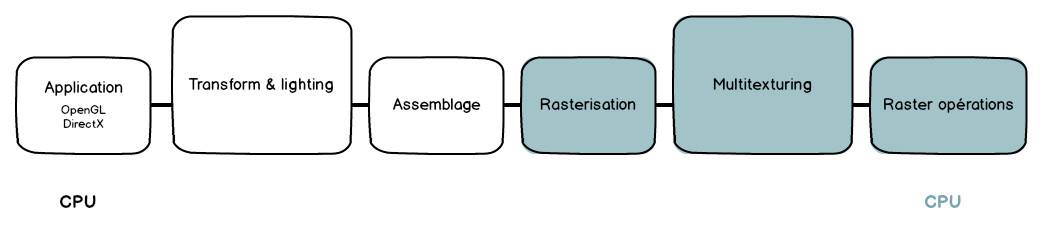
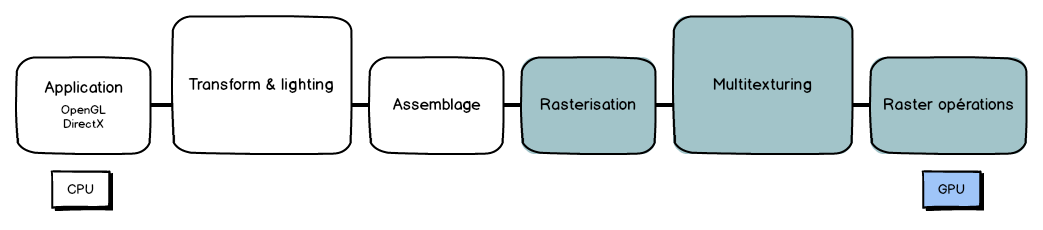
Image et bibtex

Changed region(s): [[0.8591, 0.7304, 0.9511, 0.9435], [0.0307, 0.7304, 0.1227, 0.9435]]

diff --git a/Tex/gpu_et_cpu/histoire.tex b/Tex/gpu_et_cpu/histoire.tex
@@ -24,7 +24,7 @@ Cette carte est une avancée majeure puisqu'elle permet désormais d'afficher n'
 Dans ce cas le CPU va effectuer tous les calculs permettant de décomposer les formes à afficher en pixels, il les envoie ensuite à la carte graphique qui les affiche.
 
 
-\includegraphics[width=15cm,height=4cm]{img/cpuRasterExemple.png}
+\includegraphics[width=15cm,height=6cm]{img/cpuRasterExemple.png}
 
 Dans cet exemple c'est donc le CPU qui va effectuer la demande de l'application en décomposant la ligne en pixels qui seront envoyés à la carte graphique.\\
 Ces calculs sont lourds pour le CPU, qui n'est alors composé que d'un coeur, celui ci n'est pas optimisé pour effectuer de nombreux calculs en peu de temps.
@@ -43,7 +43,7 @@ Aussi durant les années 1980, avec l'arrivée des interfaces graphiques, les ca
 Le CPU se comporte désormais en superviseur, il demande à la carte graphique de tracer telle forme et c'est celle-ci qui effectue les calculs.
 
 
-\includegraphics[width=16cm,height=8cm]{img/gpuRasterExemple.png}
+\includegraphics[width=16cm,height=6cm]{img/gpuRasterExemple.png}
 
 Ici, c'est la carte graphique qui va calculer tous les pixels de la ligne d'après les consignes du CPU avant de les afficher à l'écran.
 
@@ -82,8 +82,8 @@ Les CPU et les GPU ont des rôles très différents.
 
 De part leurs rôles différents, les CPU et les GPU ont des architectures différentes.
 
-\textbf{\\Les architectures :}
-\\
+\newpage
+\textbf{Les architectures :}
 \begin{center}
 \includegraphics[width=14cm]{pipeline/images/GPUCPU.png}
 \end{center}

diff --git a/Tex/pipeline/pipelinegraphique.tex b/Tex/pipeline/pipelinegraphique.tex
@@ -19,27 +19,27 @@ Le pipeline se décompose en 3 étapes :
   \item Etape 3 : Construction et rendu de l'image finale.\end{itemize}
 
 Source : \cite{pipeline2}
-
+\newpage
 \section{Historique}
 1998/1999 : La première génération (rastérisation + texture mapping par le GPU)
 \\
 \begin{center}
-\includegraphics[width=14cm,height=40mm]{pipeline/images/pipeline1.png}
+\includegraphics[width=14cm,height=35mm]{pipeline/images/pipeline1.png}
 \end{center}
 1999/2000 : La deuxième génération (Transform \& lighting par le GPU)
 \\
 \begin{center}
-\includegraphics[width=14cm,height=40mm]{pipeline/images/pipeline2.png} 
+\includegraphics[width=14cm,height=35mm]{pipeline/images/pipeline2.png} 
 \end{center}
 2001/2002 : Troisième génération (Vertex shader par le GPU)
 \\
 \begin{center}
-\includegraphics[width=14cm,height=40mm]{pipeline/images/pipeline3.png}
+\includegraphics[width=14cm,height=35mm]{pipeline/images/pipeline3.png}
 \end{center}
 2003 : Quatrième génération (Fragment (ou Pixel) shader par le GPU)
 \\
 \begin{center}
-\includegraphics[width=14cm,height=40mm]{pipeline/images/pipeline4.png}
+\includegraphics[width=14cm,height=35mm]{pipeline/images/pipeline4.png}
 \end{center}
 
 Source : \cite{histoirePipeline}

diff --git a/Tex/etat_de_l_art.tex b/Tex/etat_de_l_art.tex
@@ -8,7 +8,7 @@
 \usepackage{color}
 \usepackage{url}
 \usepackage{natbib}
-\bibliographystyle{plainnat}
+\bibliographystyle{plain}
 \usepackage[pdfborder=0]{hyperref}%pour faire des ancres Table des matières -> partie A | partie B | etc
 \definecolor{blanc}{rgb}{0.0,0.0,0.0}
 \hypersetup{
